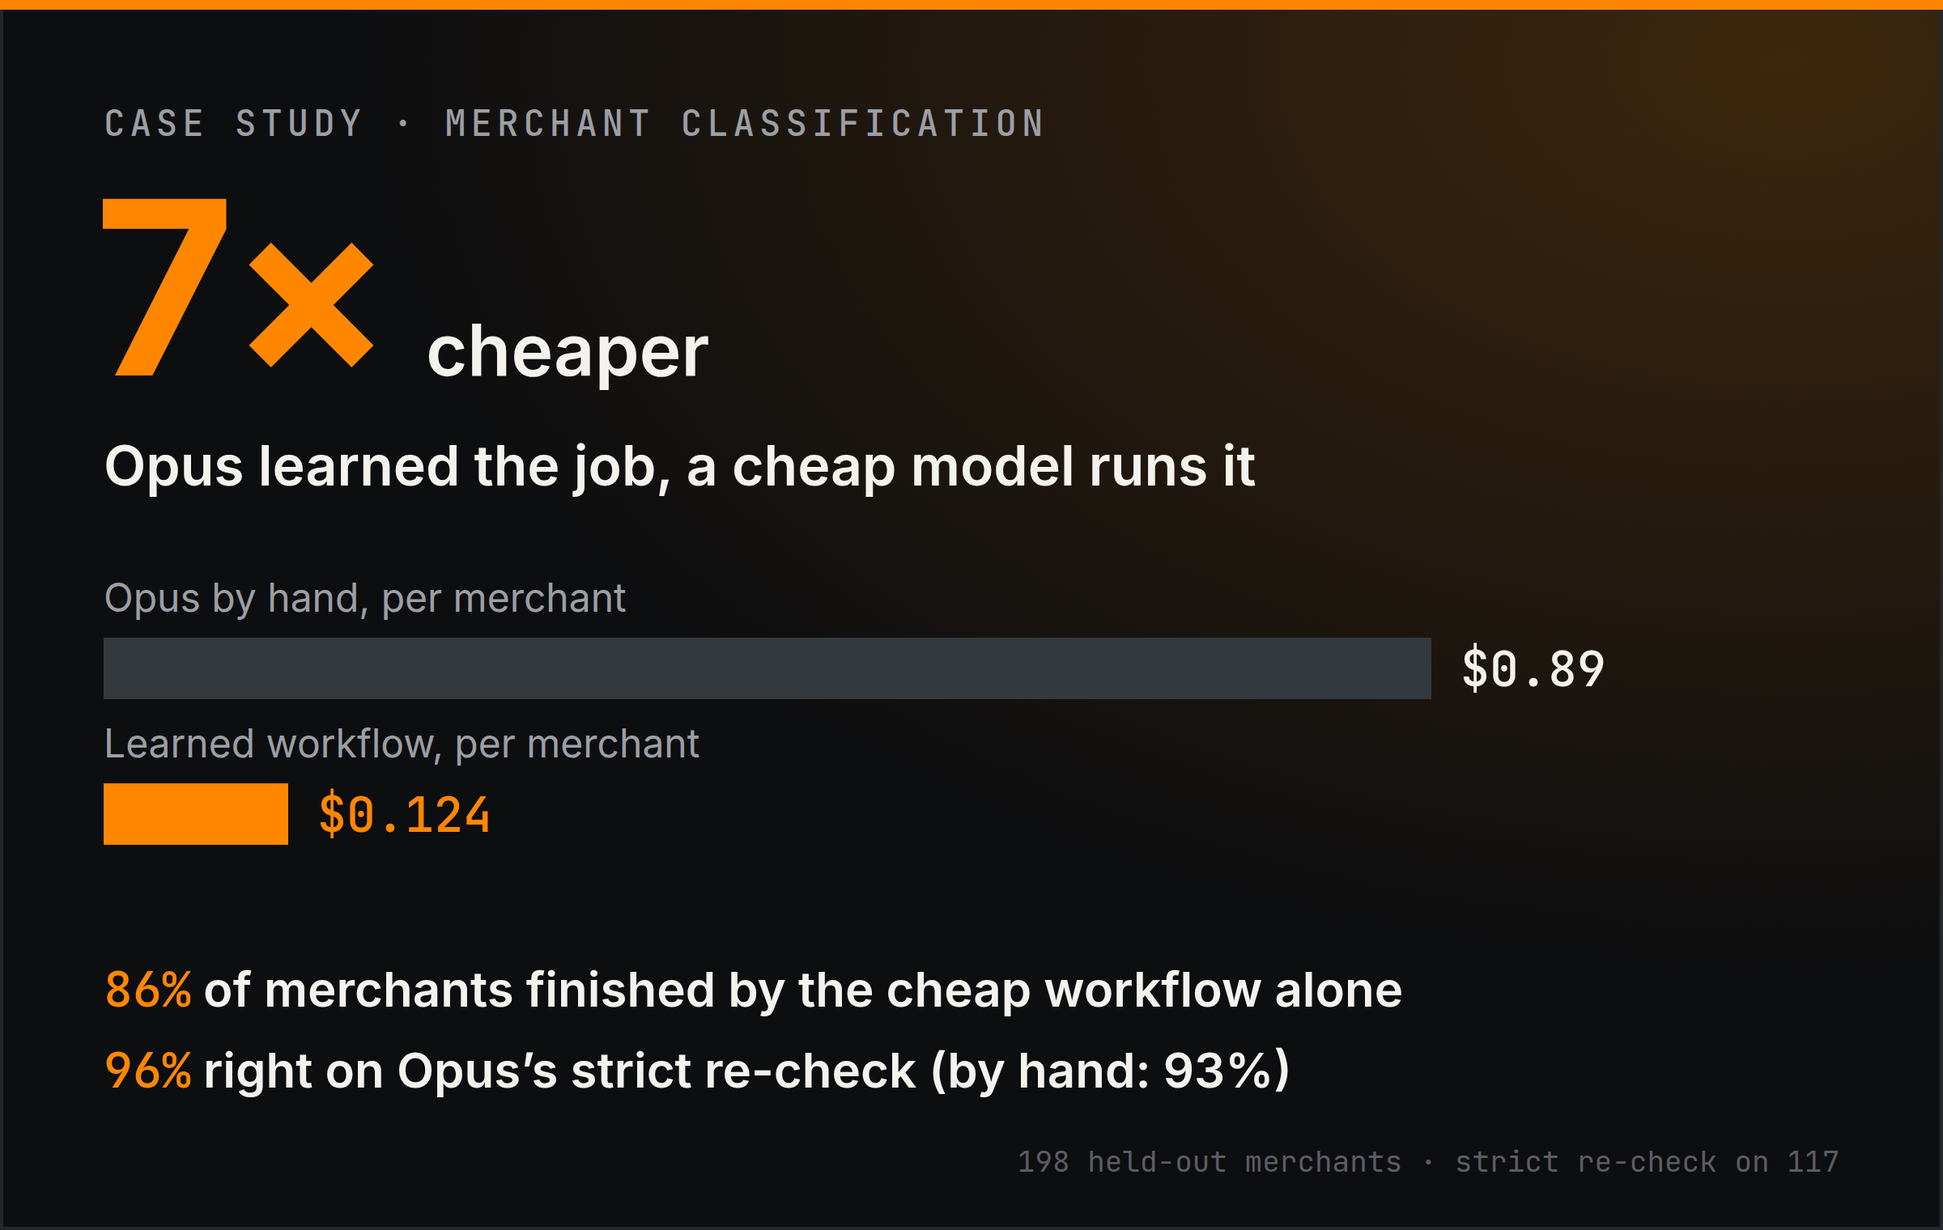
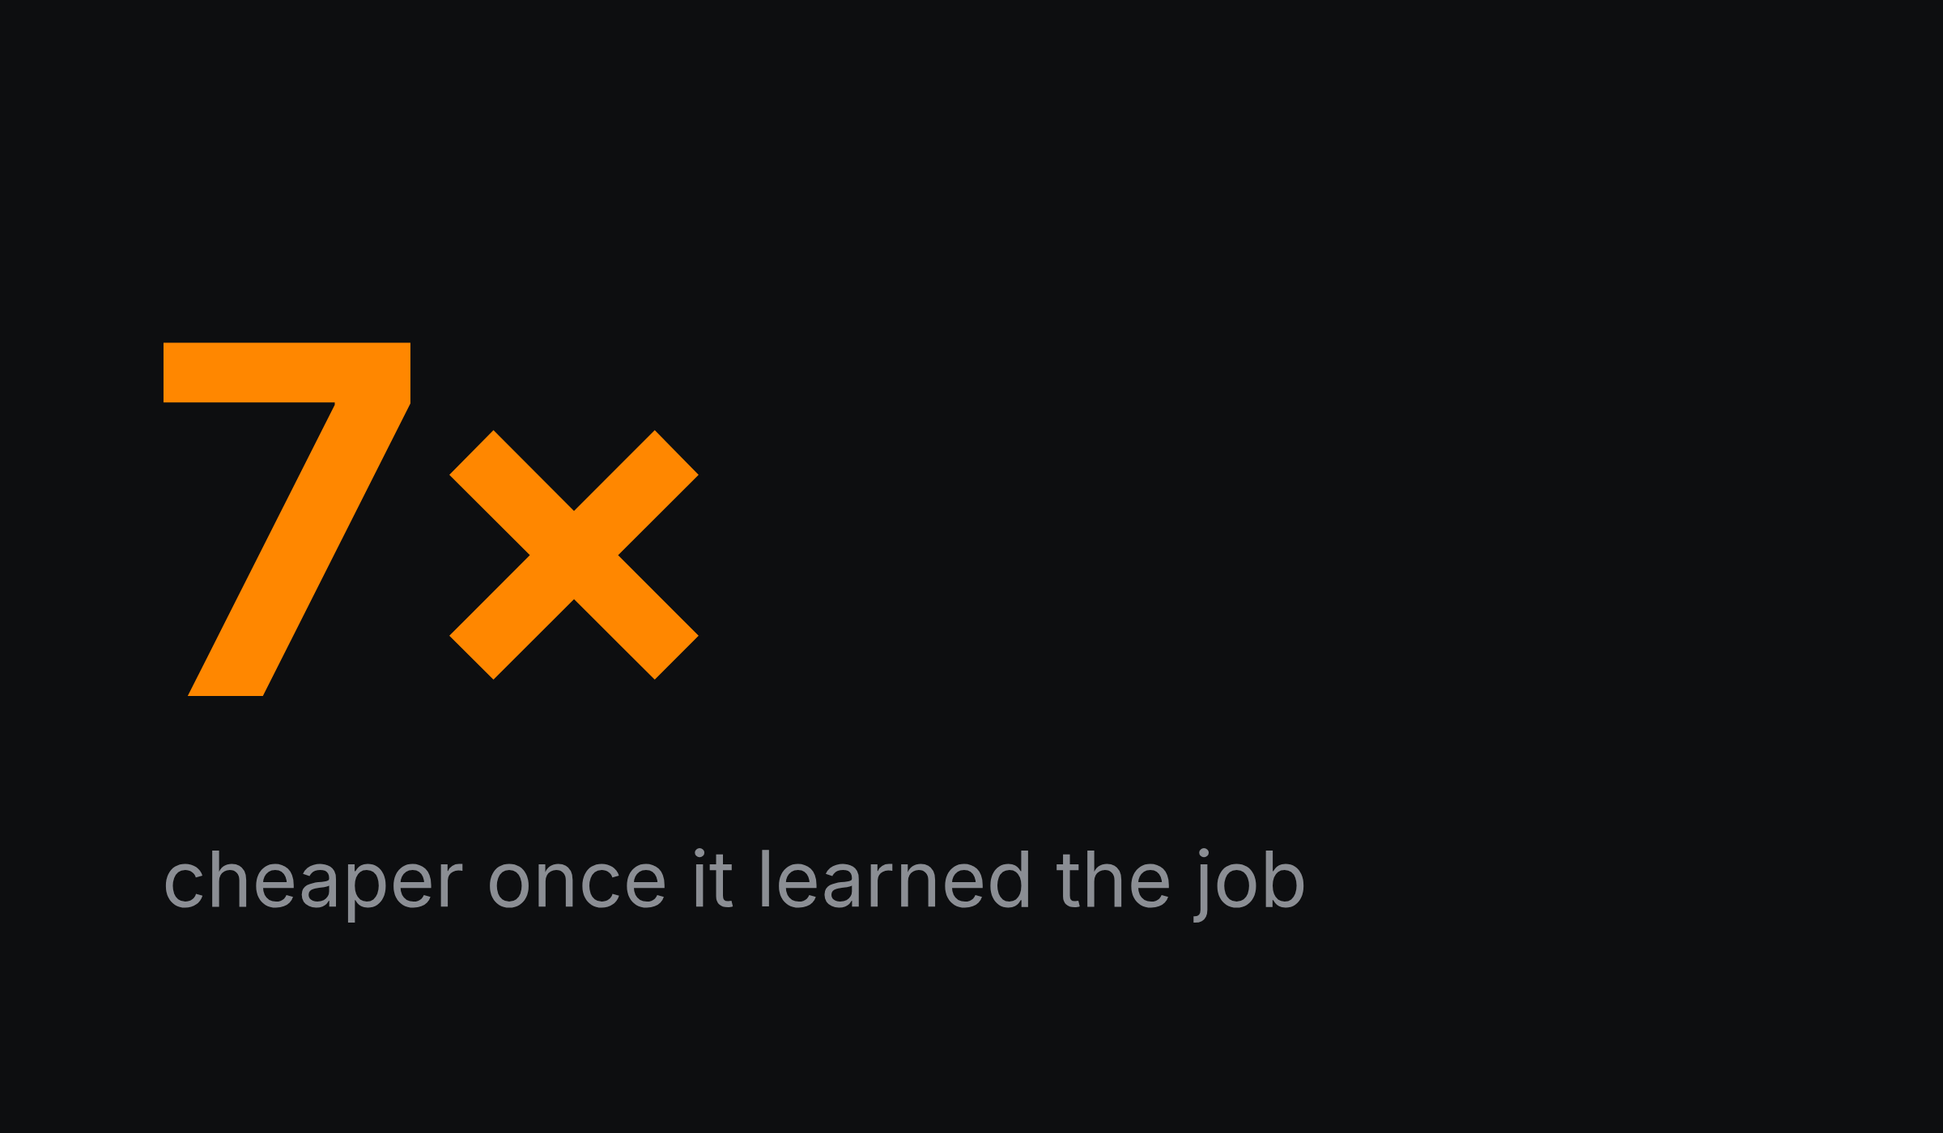
docs(readme): one number per case-study image, plainer copy
Each card is one number and one line; each chart is two bars. The README
lines, case-study pages and tutorials are cut to what a reader needs.

diff --git a/docs/case-studies/merchant-classification.md b/docs/case-studies/merchant-classification.md
@@ -1,79 +1,38 @@
-# Opus learns the job. A cheap model runs it.
-
-> **TL;DR**
-> - **7x cheaper.** $0.89 a merchant down to $0.124.
-> - **86% of merchants** done by the cheap workflow alone.
-> - **96% right** on a strict Opus re-check. Opus by hand: 93%.
-
-<p align="center">
-  <img alt="Cost per merchant every 100 runs: $0.210 for runs 1 to 100, then between $0.131 and $0.165 for every block after, against $0.89 for Opus by hand" src="../assets/case-studies/chart-merchant-codes.png" width="100%">
-</p>
-
-## The job
+# Opus learns the job, a cheap model runs it
 
 Every merchant a payments company signs needs a 4-digit Merchant Category Code: 5812 for restaurants, 7011 for hotels,
-and several hundred more. Someone reads the website and picks one. Thousands of times.
+and hundreds more. Someone reads the website and picks one. Over and over.
 
-The agent gets a name and a website. It answers with the code, plus the URL and the quote that prove it.
+We gave the job to Opus with learning on, and told it the right answer after every run. It wrote down the path it kept
+taking as a workflow. From run 21 on, a cheap model ran that workflow, and Opus only got the hard cases.
 
-## How it works
+<p align="center">
+  <img alt="Cost per merchant: Opus by hand $0.89, learned $0.124" src="../assets/case-studies/chart-merchant-codes.png" width="100%">
+</p>
 
-1. **Opus does the job,** with learning on.
-2. **A reviewer tells it the right code** after every answer.
-3. **It writes down the path it keeps taking** as a workflow.
-4. **From run 21 on, a cheap model runs that workflow** (gpt-6-luna).
-5. **Hard cases go back to Opus.** If the workflow can't read the site or can't back its answer with a quote, Opus
-   takes over.
+That's on 198 merchants it never learned on, everything billed. The cheap model finished 86% of merchants on its own.
+When Opus re-checked the answers strictly, the learned workflow got 96% right. Opus doing it by hand got 93%.
 
-<details>
-<summary>The 10-step workflow Opus wrote</summary>
+## The workflow Opus wrote
 
-1. Fetch the merchant's home page.
-2. Check the text is readable, or whether it needs a real browser.
-3. Fetch again, or open it in the browser.
-4. Still nothing: hand it to Opus.
-5. Cheap model reads the site: is it live, what does it sell?
-6. Cheap model picks the code from the MCC tables.
-7. A judge checks the quote is on a page the run actually read.
-8. Not backed up: hand it to Opus.
-9. Score the risk fields.
-10. Put the answer together.
+1. Fetch the merchant's site. If the text is unreadable, open it in a real browser.
+2. Still nothing? Hand it to Opus.
+3. The cheap model reads the site and picks the code.
+4. A judge checks the quote behind the code is on a page it actually read.
+5. Not backed up? Hand it to Opus.
 
-</details>
+## Learning helps the cheap model too
 
-## The numbers
-
-On 198 merchants it never learned on, all costs in:
-
-| | Cost a merchant | Strict Opus re-check (117 of them) |
-| --- | --- | --- |
-| Opus by hand | $0.89 | 109 of 117 (93%) |
-| **Learned workflow** | **$0.124** | **112 of 117 (96%)** |
-
-Where the money went over 555 merchants:
-
-| Who finished it | Share | Cost a merchant |
-| --- | --- | --- |
-| The cheap workflow, alone | 86% | **$0.085** |
-| Handed back to Opus | 10% | $0.63 |
-| Everything else (early runs, drafts) | 4% | $0.27 to $0.88 |
-
-## Bonus: learning makes the cheap model smarter too
-
-gpt-6-luna on its own, on a sealed set of 157 merchants nothing was tuned on:
-
-- Learning off: **75.2%** exact codes.
-- Learning on: **81.4%**. That's **+6.2 points** after only 36 merchants of learning, at about a cent an answer.
+We also ran gpt-6-luna alone on 157 sealed merchants, learning off and on. Off: 75% exact codes. On: 81%. That's after
+only 36 runs of learning, at about a cent an answer.
 
 ## How we scored it
 
-- 950 merchants with reference codes from our production classifier.
-- 555 to learn on, 40 to check new workflow versions, 198 held out, 157 sealed.
-- The sealed set is locked with salted hashes before any run, and its runs read a recorded web with the answers
-  scrubbed out.
-- Every cost is all-in: Opus, the cheap model, the hand-backs and the learning.
+950 merchants with reference codes from our production classifier: 555 to learn on, 198 held out, 157 sealed with
+salted hashes before any run, and 40 to vet new workflow versions. The sealed runs read a recorded web with the answers
+scrubbed out. Every cost includes Opus, the cheap model, the hand-backs and the learning.
 
-## Do it with your own job
+## Try it
 
-Anything you do over and over with different inputs works the same way.
+Works for anything you do over and over with different inputs.
 [Teach an expensive agent, run a cheap one](../tutorials/learn-then-hand-off.md).

diff --git a/docs/tutorials/tune-a-template.md b/docs/tutorials/tune-a-template.md
@@ -1,70 +1,44 @@
 # Tune a template on your own code
 
-> **The loop:** build a graded set, hold some out, grade blind, change one thing at a time, lock it in with evals.
-> It's how we got `code-review` to
-> [1.6x the real bugs Greptile caught, for 18 cents a review](../case-studies/code-review.md).
-
-Code review is the example here. The same loop works for `kyb`, `inbound-lead` or any template you write.
+This is how we got `code-review` to [catch 1.6x the real bugs Greptile did](../case-studies/code-review.md). Code
+review is the example, but it works for any template.
 
 ## 1. Apply it
 
-In the console: **Templates → Apply → code-review**. Pick the repo, tick the GitHub tools. It sets up its own PR
+In the console, **Templates → Apply → code-review**. Pick the repo and tick the GitHub tools. It sets up its own PR
 trigger and posts comment-only reviews. It needs a box (Docker, on by default) for its read-only shell.
 
-Or from code:
+## 2. Tell it about your repo
 
-```sh
-curl -X POST "$AGENTRUN_BASE_URL/templates/code-review/apply" \
-  -H "Authorization: Bearer $AGENTRUN_API_KEY" -H "Content-Type: application/json" \
-  -d '{"parameters": {"repo": "your-org/your-repo"}}'
-```
+- `docs/CODEREVIEW.md`: what matters, what to never flag. Every reviewer reads it.
+- `.agents/skills/code-review-knowledge/SKILL.md`: rules by path, like "anything under `billing/` must...".
+- `"learning": true`: it keeps notes from every review.
 
-Any model works. We used particle-1: cheap, and sharp once it has a shell.
+That alone gets you most of the way.
 
-## 2. Teach it your repo
+## 3. Build a test set
 
-Three files, no loop needed:
-
-- `docs/CODEREVIEW.md`: what matters here, what never to flag. Every reviewer reads it.
-- `.agents/skills/code-review-knowledge/SKILL.md`: rules by path ("anything under `billing/` must...").
-- `"learning": true` on the agent: it keeps notes from every review.
-
-## 3. Build a graded set
-
-- Take 30 to 70 merged PRs.
-- For each: what your current reviewer said, plus any bug later traced back to it.
-- **Hold out the newest 20 to 30.** Don't look at them while tuning. They're your final score.
+Grab 30 to 70 merged PRs, with what your current reviewer said and any bug later traced back to each one. Put the
+newest 20 or 30 aside and don't touch them until the end.
 
 ## 4. Grade blind
 
-- A strong model labels every finding real, nit or wrong, without knowing who wrote it.
-- Pool every real bug from every reviewer into one answer key.
-- Credit your old reviewer the same way: wherever it found the same bug.
+Have a strong model mark every finding real, nit or wrong without knowing who wrote it. Put every real bug anyone found
+into one answer key, and credit every reviewer the same way, your old one included.
 
-## 5. Track four numbers
+Watch four numbers: bugs caught, serious bugs caught, wrong findings, cost. A review that timed out counts as zero.
 
-- Recall: how much of the answer key it caught.
-- Serious-bug recall: same, for P0 and P1. The one that matters most.
-- Wrong rate: how many findings were wrong.
-- Cost per review.
+## 5. Change one thing at a time
 
-A review that timed out counts as zero. One slow runner made a good version of ours look 15 points worse.
+Keep a change only if serious bugs caught holds up. What moved ours: the mix of reviewers, what the parent is allowed
+to drop, effort per reviewer, and the `CODEREVIEW.md`.
 
-## 6. Change one thing at a time
+## 6. Lock it in
 
-Keep a change only if serious-bug recall holds and the wrong rate stays under your bar. What moved ours:
-
-- The mix of reviewers. 5 quick plus 3 deep beat 8 of either.
-- What the parent may drop. Only what the code contradicts.
-- Effort and tool-call budgets per reviewer.
-- Your `CODEREVIEW.md`.
-
-## 7. Lock it in
-
-Every PR that taught you something becomes an eval case in `evals/<case>/`. Then one command catches a regression:
+Turn every PR that taught you something into an eval case under `evals/`, then run:
 
 ```sh
 npx @parcha/agentrun template eval ./my-code-review
 ```
 
-[Template packages](../../packages/serve/templates/README.md) has the case format.
+[Template packages](../../packages/serve/templates/README.md) has the format.

diff --git a/docs/case-studies/code-review.md b/docs/case-studies/code-review.md
@@ -1,52 +1,39 @@
 # Code review for 18 cents
 
-> **TL;DR**
-> - **$0.18 a review.** One parent agent, eight reviewers, one cheap model.
-> - **1.6x the real bugs Greptile caught**, on 30 PRs it never saw.
-> - **5 of 8 serious bugs.** Greptile caught 1.
+Code review got expensive with how many PRs we open, so we built our own. It runs on particle-1, a model that costs
+almost nothing, and a review costs us about 18 cents.
 
 <p align="center">
-  <img alt="On 30 pull requests it never trained on: AgentRun code review caught 42% of the real defects to Greptile's 26%, and 5 of the 8 serious bugs to Greptile's 1" src="../assets/case-studies/chart-code-review.png" width="100%">
+  <img alt="Real bugs caught: Greptile 26%, AgentRun 42%" src="../assets/case-studies/chart-code-review.png" width="100%">
 </p>
 
-## The numbers
+That's on the 30 newest PRs in this repo, none of which it was tuned on. On serious bugs it caught 5 of 8. Greptile
+caught 1.
 
-| On 30 PRs it never saw | AgentRun `code-review` | Greptile |
-| --- | --- | --- |
-| Real bugs caught | **42%** (33 of 78) | 26% (20 of 78) |
-| Serious bugs caught (P0/P1) | **5 of 8** | 1 of 8 |
-| Cost per review | **$0.18** | per seat |
+## What it is
 
-## What ships
+One agent reads the PR and sends out eight reviewers. Five quick ones read the whole change. Three deep ones dig into
+the risky parts. They all work on a read-only checkout of the PR. The parent checks every finding against the code and
+posts one review. It comments, it never approves.
 
-- **5 quick reviewers.** They read the whole change and flag what looks wrong.
-- **3 deep reviewers.** They chase state, ordering and untrusted input through the code.
-- **1 parent.** It merges what they find, checks each finding against the code, and posts one review.
+## What made it good
 
-All on particle-1, on a read-only checkout of the PR. It comments. It never approves.
-
-## What moved the numbers
-
-1. **Give the cheap model a shell.** Reading only the diff, it was wrong 70% of the time. With read-only bash on the
-   checkout: 7%.
-2. **Mix your reviewers.** 5 quick plus 3 deep beat 8 of either.
-3. **Don't let the parent talk reviewers out of real bugs.** It drops a finding only when the code contradicts it.
-   Serious bugs on our tuning set went from 16 to 23 of 38.
-4. **Count the reviews that never posted.** A timeout once made a good version look 15 points worse. Fix the timeout,
-   not the reviewer.
+- **Give it a shell.** Reading only the diff, the cheap model was wrong 70% of the time. With read-only bash on the
+  code, 7%.
+- **Mix the reviewers.** Five quick plus three deep beat eight of the same.
+- **Don't let the parent argue bugs away.** Our first version tossed real bugs it couldn't prove. Now it drops a finding
+  only when the code says it's wrong.
+- **Count the reviews that never posted.** A timeout once made a good version look 15 points worse.
 
 ## How we scored it
 
-- 70 merged AgentRun PRs to tune on. The 30 newest held out for the final score.
-- Opus 5.5 grades every finding blind: real, nit or wrong.
-- One answer key with every real bug anyone found: 78 bugs, 8 serious.
-- Cost is what OpenRouter billed for the parent and all eight reviewers, averaged over 70 reviews.
+We tuned on 70 merged PRs and kept the 30 newest aside for the final score. Opus 5.5 graded every finding from every
+reviewer without knowing who wrote it, and every real bug anyone found went into one answer key: 78 bugs, 8 of them
+serious. Cost is what OpenRouter billed.
 
-## Run it on your repo
+## Try it
 
-1. In the console: **Templates → Apply → code-review**. Pick the repo, tick the GitHub tools. It needs a box (Docker,
-   on by default) for its read-only shell.
-2. Add `docs/CODEREVIEW.md` to your repo: what matters, what never to flag.
-3. Turn on `"learning": true`. It keeps notes from every review.
+In the console, **Templates → Apply → code-review**. Add a `docs/CODEREVIEW.md` to your repo with what matters and what
+to never flag, and turn on `"learning": true`.
 
 Want it sharper on your code? [Tune a template on your own code](../tutorials/tune-a-template.md).

diff --git a/docs/tutorials/learn-then-hand-off.md b/docs/tutorials/learn-then-hand-off.md
@@ -1,14 +1,11 @@
 # Teach an expensive agent, run a cheap one
 
-> **The idea:** a strong model figures the job out and writes it down as a workflow. A cheap model runs the workflow.
-> The strong model only gets the hard cases. That's how we took
-> [merchant classification from $0.89 to $0.124](../case-studies/merchant-classification.md).
-
-Works for any job you do over and over with different inputs: classifying, checking documents, due diligence, triage.
+A strong model figures the job out and writes it down as a workflow. A cheap model runs the workflow. The strong model
+only sees the hard cases. It's how we took [merchant codes from $0.89 to $0.12](../case-studies/merchant-classification.md).
 
 ## 1. Pick two models
 
-The agent runs on the strong one. Workflow steps run on the `fast` tier, your cheap one.
+The agent runs on the strong one. Workflow steps on the `fast` tier run on the cheap one.
 
 ```sh
 AGENT_MODEL=openrouter/anthropic/claude-opus-5.5 \
@@ -16,7 +13,7 @@ AGENT_MODEL_FAST=openrouter/openai/gpt-6-luna \
 npx @parcha/agentrun
 ```
 
-## 2. Make the agent, learning on
+## 2. Make the agent
 
 ```sh
 cat > agent.json <<'EOF'
@@ -27,40 +24,27 @@ EOF
 npx @parcha/agentrun agents create --body @agent.json
 ```
 
-That last line of the instructions is what makes its workflows run cheap.
+The last sentence of the instructions is what makes its workflows run cheap.
 
-## 3. Be its reviewer
+## 3. Tell it how it did
 
-Run it on real inputs. After each run, tell it how it did, as a follow-up on the same run:
+After each run, send the right answer as a follow-up:
 
 ```sh
 npx @parcha/agentrun runs message "$run" --content "Right answer: 5691. You said 5651. The site only sells women's clothing."
 ```
 
-At the end of every run, the agent looks back at the whole conversation and keeps what helps. Your feedback included.
+At the end of every run it looks back at the whole conversation and keeps what helps. Tell it when it's right too, and
+cover every field you care about. The one you never mention is the one it gets sloppy on.
 
-Two rules:
-- Give feedback when it's right too, not only when it's wrong.
-- Give feedback on every field you care about. The one you never mention is the one it gets sloppy on.
+## 4. Watch it learn
 
-## 4. Watch it write the workflow
-
-Open the agent's **Learning** tab:
-
-1. **Notes** come first: short rules it keeps for itself.
-2. **A skill** next: the how-to it keeps following.
-3. **A workflow** once that skill has served a few runs: fixed steps, small judgment steps, and a hand-back to the full
-   agent when it can't back up an answer.
-
-From then on, every run gets the workflow as one tool, `learned_workflow`, and reaches for it first.
+Open the agent's **Learning** tab. Notes show up first, then a skill, then a workflow once that skill has done the job
+a few times. From then on every run reaches for the workflow first.
 
 ## 5. Check the bill
 
-Every run shows what it cost, learning and workflow steps included. Ours dropped the run the workflow took over and
-stayed down.
+Every run shows its cost, learning included. Ours dropped the run the workflow took over and stayed there.
 
-## 6. Prove it on a holdout
-
-Keep some inputs the agent never learns on, and score it there with learning off and on. The
-[learning bench](../../packages/serve/learn-bench/README.md) does exactly this and reports cost per run, how often it
-follows what it learned, and how often it reuses its workflow.
+To prove it, keep some inputs it never learns on and compare learning off and on. The
+[learning bench](../../packages/serve/learn-bench/README.md) does that for you.

diff --git a/README.md b/README.md
@@ -7,7 +7,7 @@
 </p>
 
 <p align="center">
-  <a href="#case-studies">Code review for 18 cents. A job 7x cheaper once Opus learned it. See the case studies ↓</a>
+  <a href="#case-studies">Our code reviews cost 18 cents now. See how ↓</a>
 </p>
 
 <p align="center">
@@ -43,20 +43,17 @@ tokens with every run.
 
 ## Case studies
 
-Real jobs on AgentRun. Real numbers.
-
 <p align="center">
-  <a href="docs/case-studies/code-review.md"><img alt="Code review case study: $0.18 a review, and 1.6 times the real bugs Greptile found on 30 pull requests it never trained on: 42% of real defects to 26%, and 5 of 8 serious bugs to 1" src="docs/assets/case-studies/case-code-review.png" width="49%"></a>
-  <a href="docs/case-studies/merchant-classification.md"><img alt="Merchant classification case study: 7 times cheaper, $0.89 a merchant by hand on Opus down to $0.124 with the workflow Opus learned, 86% of merchants finished by the cheap workflow alone" src="docs/assets/case-studies/case-merchant-codes.png" width="49%"></a>
+  <a href="docs/case-studies/code-review.md"><img alt="1.6x the real bugs Greptile caught" src="docs/assets/case-studies/case-code-review.png" width="49%"></a>
+  <a href="docs/case-studies/merchant-classification.md"><img alt="7x cheaper once it learned the job" src="docs/assets/case-studies/case-merchant-codes.png" width="49%"></a>
 </p>
 
-**Code review for 18 cents.** A cheap model with a read-only shell, tuned on our own PRs. On 30 PRs it never saw, it
-caught 1.6x the real bugs Greptile did.
-[How we did it](docs/case-studies/code-review.md) · [Do it on your repo](docs/tutorials/tune-a-template.md)
+**Code review.** It got expensive with how many PRs we open, so we built our own reviewer on a cheap model and tuned
+it on our own PRs. It costs 18 cents a review, and on 30 PRs it had never seen it caught 1.6x the real bugs Greptile
+did. [How we built it](docs/case-studies/code-review.md) · [Tune one on your repo](docs/tutorials/tune-a-template.md)
 
-**Opus learns the job. A cheap model runs it.** Merchant classification went from $0.89 to $0.124 a merchant: 7x
-cheaper, and 96% right on a strict Opus re-check.
-[How we did it](docs/case-studies/merchant-classification.md) · [Do it with your own job](docs/tutorials/learn-then-hand-off.md)
+**Merchant codes.** We let Opus figure out how to classify merchants, then handed what it learned to a cheap model.
+Same job, $0.89 down to $0.12 a merchant. [How it works](docs/case-studies/merchant-classification.md) · [Do it with your own job](docs/tutorials/learn-then-hand-off.md)
 
 ## Why AgentRun
 

diff --git a/docs/assets/README.md b/docs/assets/README.md
@@ -39,6 +39,6 @@ Font License) on the same palette.
 ## Case study cards and charts
 
 `case-studies/` holds the cards the README's Case studies section shows and the charts on the pages under
-`docs/case-studies/`. Each is an SVG set in Inter and JetBrains Mono (SIL Open Font License), rendered at 2x. The
+`docs/case-studies/`. Each is an SVG set in Inter (SIL Open Font License), rendered at 2x. The
 numbers are the ones each case study's page states and explains. They are covered by the repository's Apache-2.0
 license.
